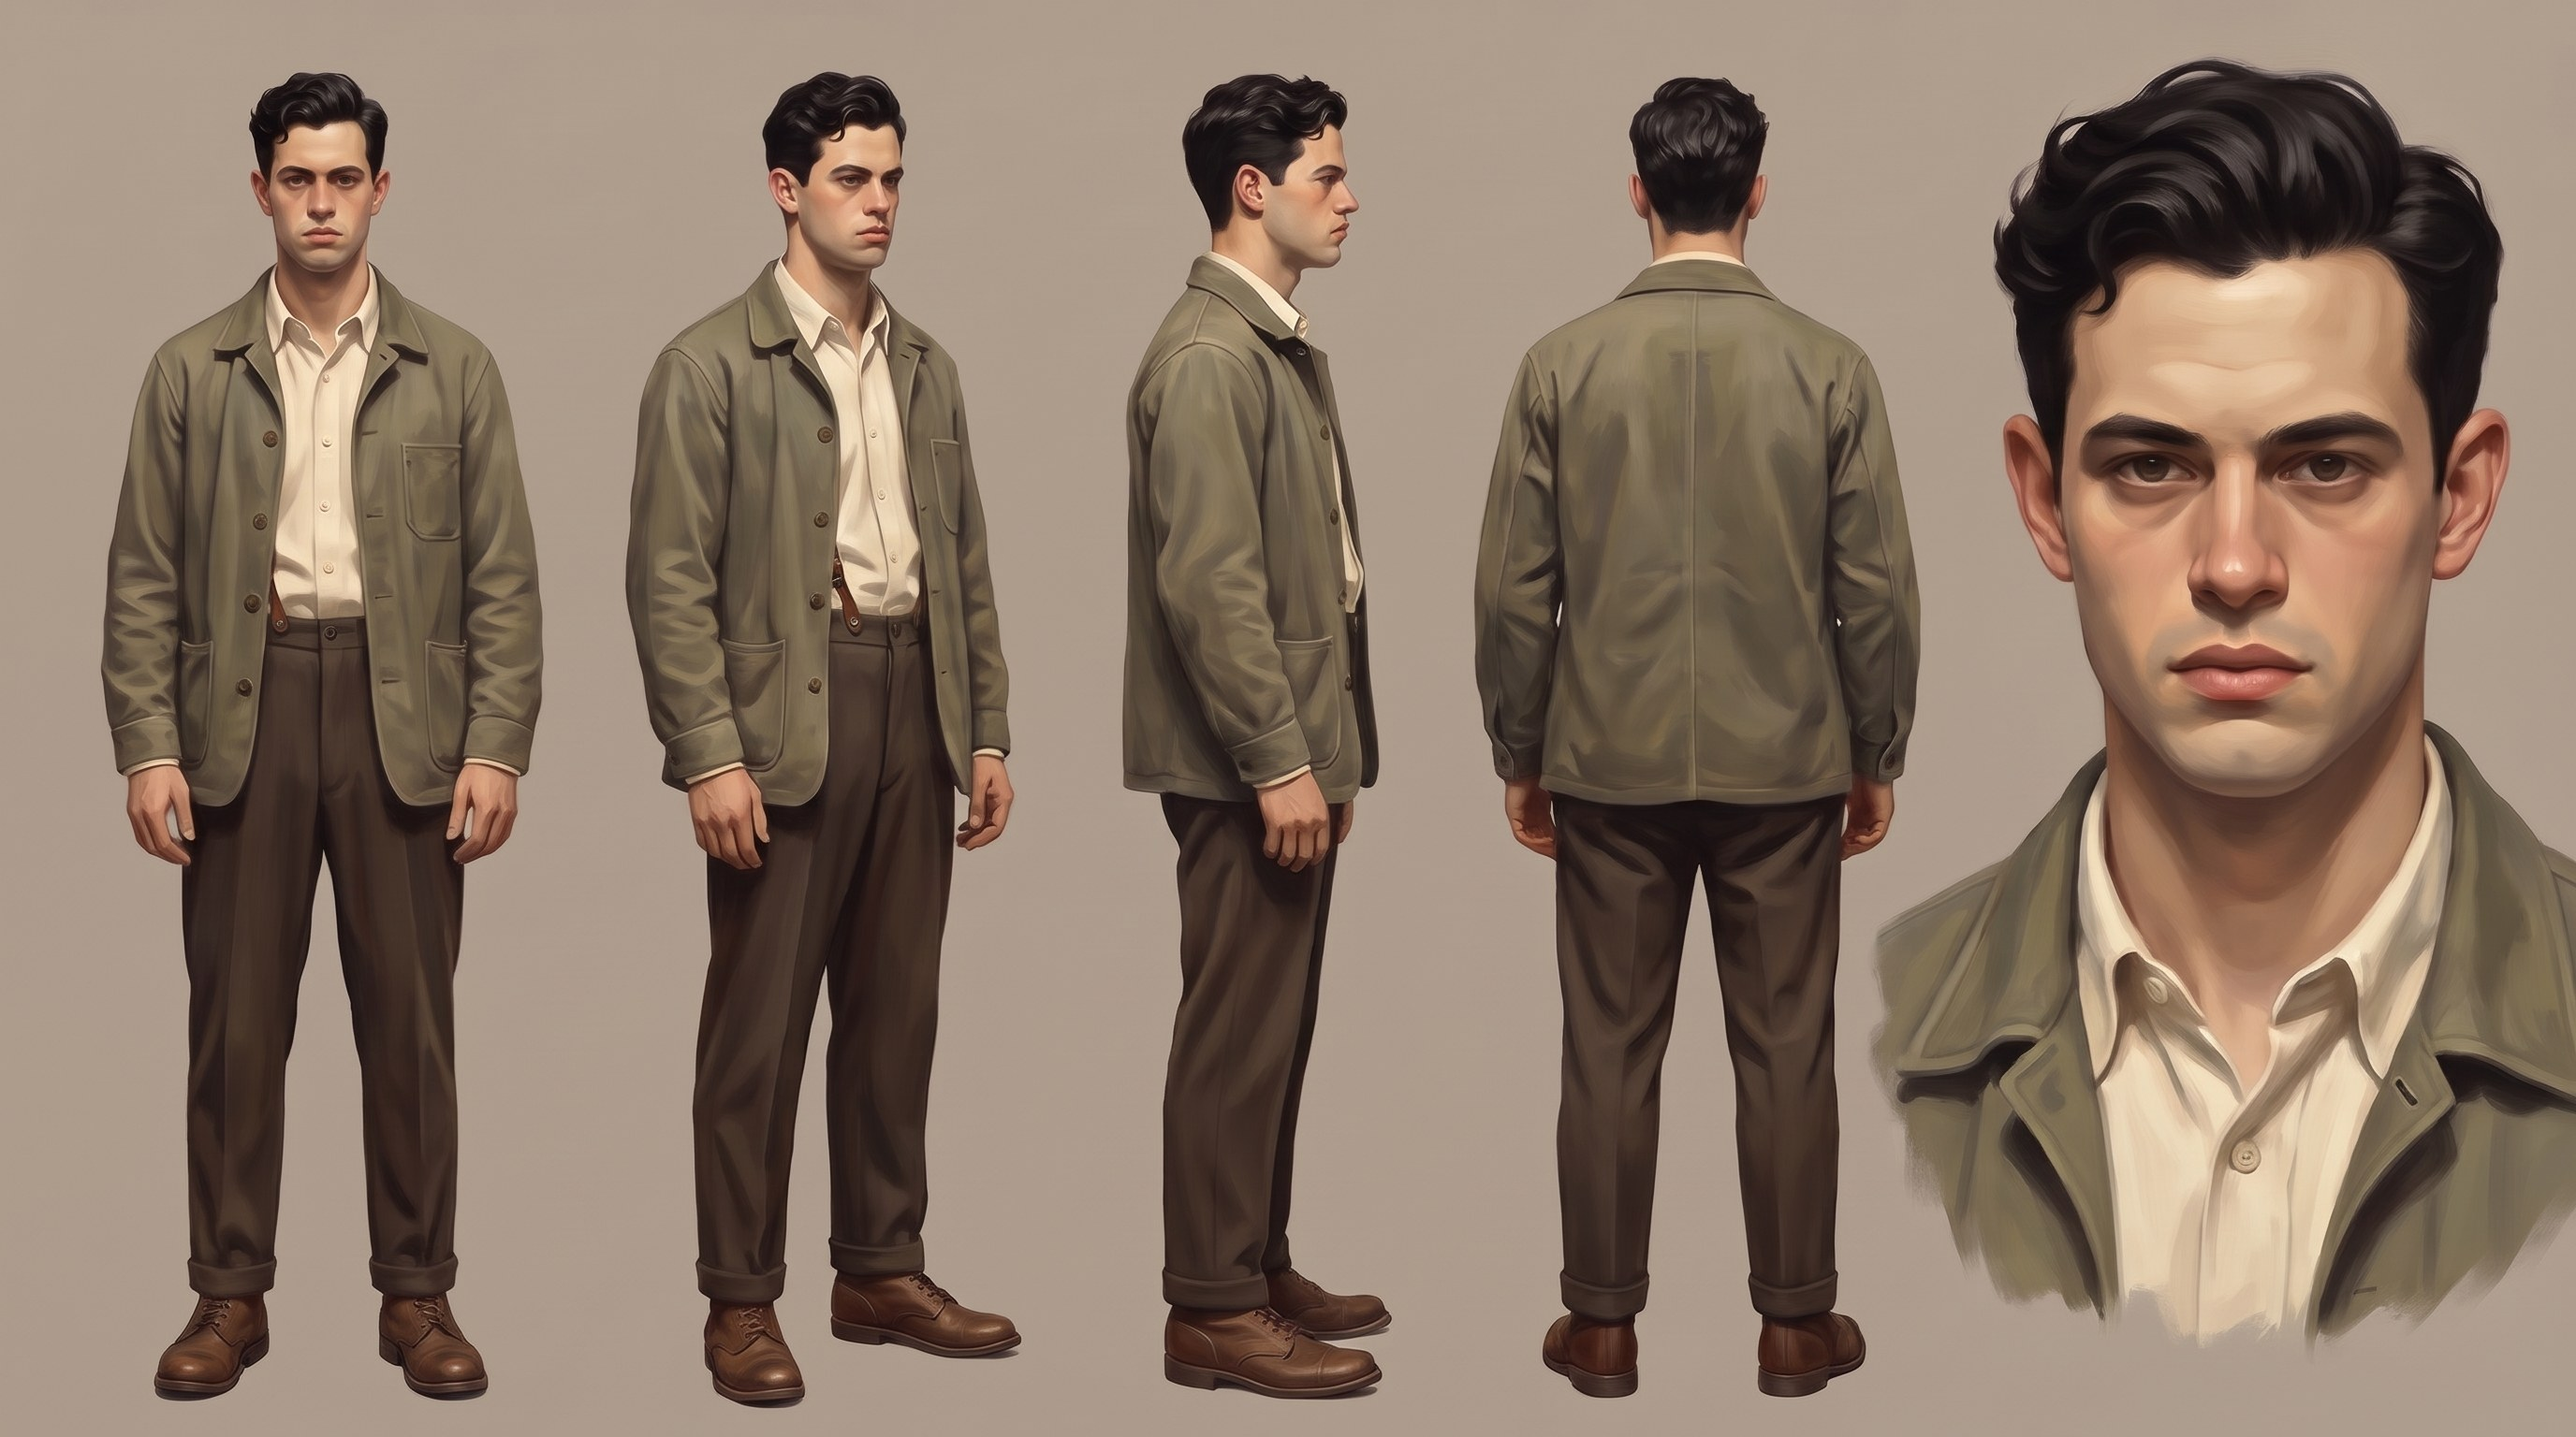
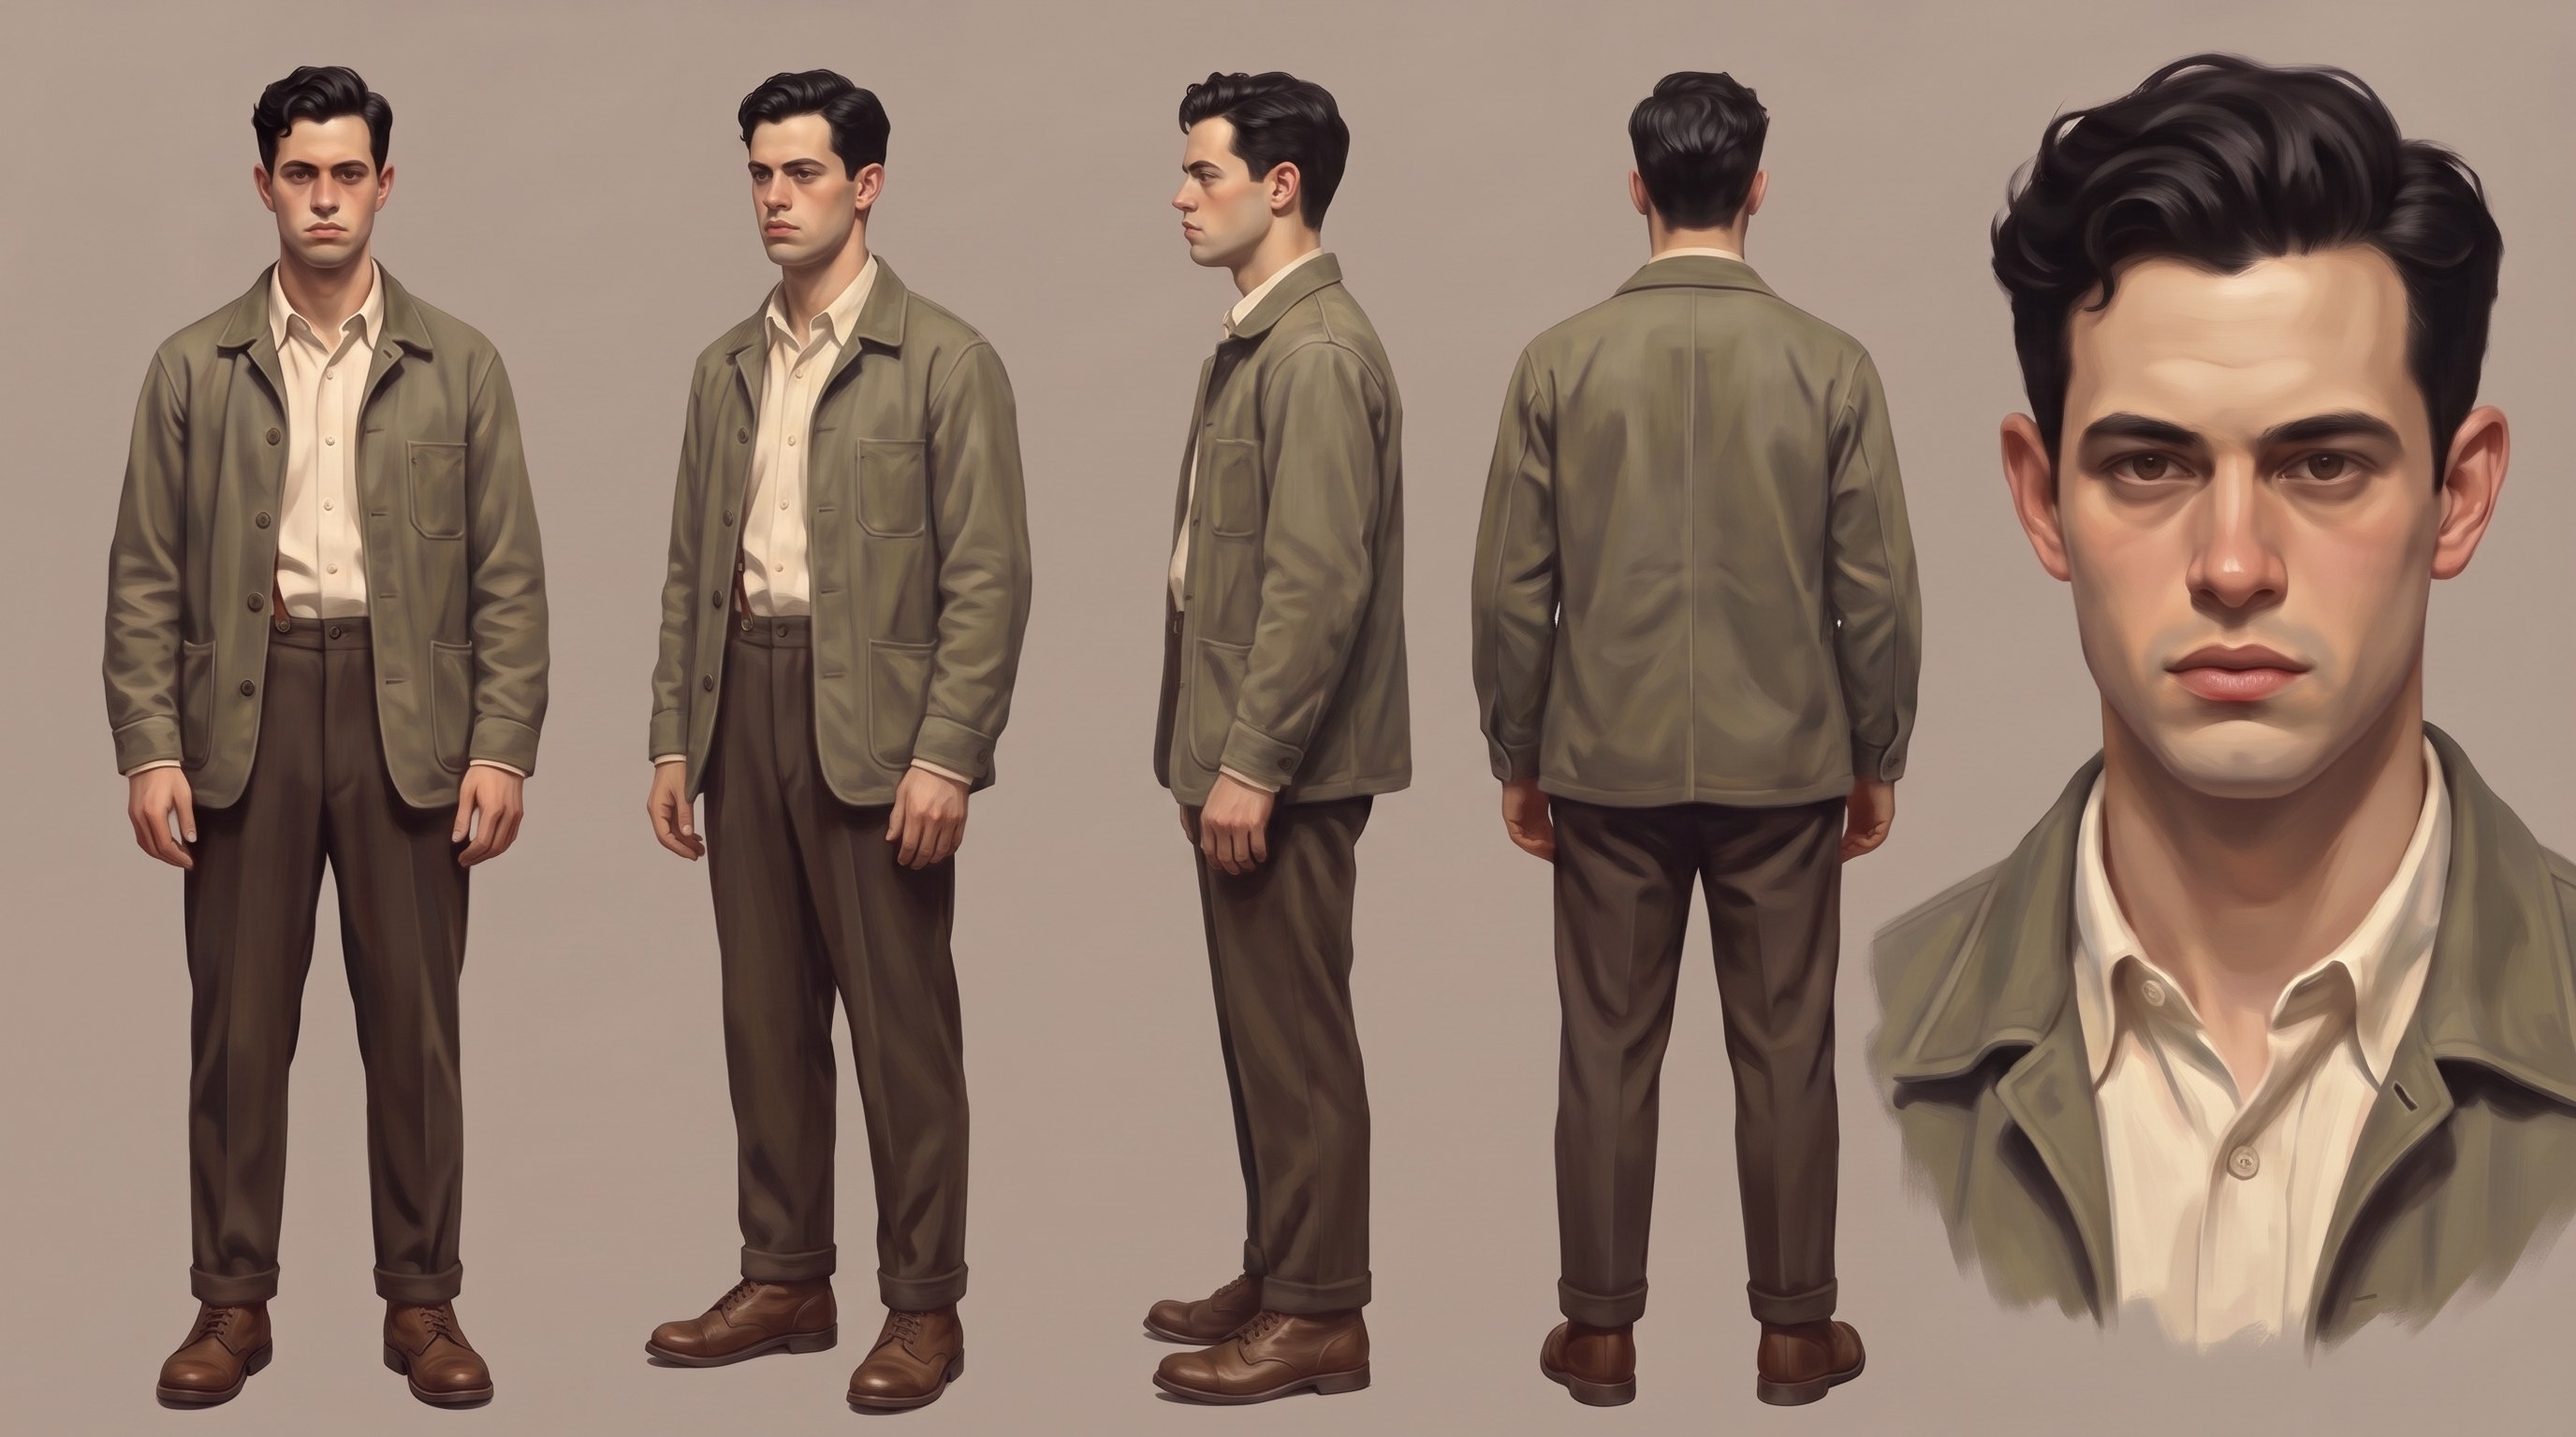
Bible: the Lady's face from three pictures of her; slender proportions; the helmet reworked (barbute T-visor silhouette, welding glass and mesh up close); the overcoat a richer rust-brown
Claude-Session: https://claude.ai/code/session_017HrTSFRZebQC29BqzH8Nx5

diff --git a/bible/style.md b/bible/style.md
@@ -18,3 +18,8 @@ Shots the examples suggest for this story:
 - a beam or column of light rising from the dark plain, small figures beside it (the crater, the end)
 - the Lady in her white dress standing on the road, wind in her hair, smoke on the horizon behind
 - a figure aiming a shotgun, side on, on an empty road or ridge (beat 32)
+
+## Body proportions
+Slender and realistically proportioned, as in American realist painting: long legs, narrow shoulders, long limbs, about 8 heads tall.
+For the cards only, cropped bodies (shoulders down, no faces) from the owner's example paintings were given to the
+image model as a proportion reference, at the owner's request. They are not stored in the repo and are not reproduced.
